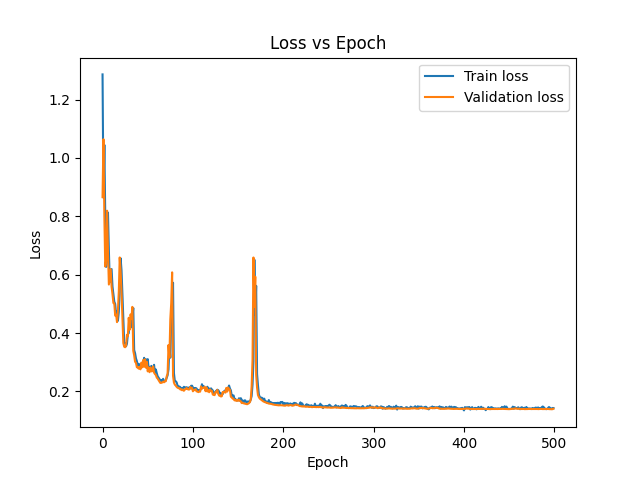
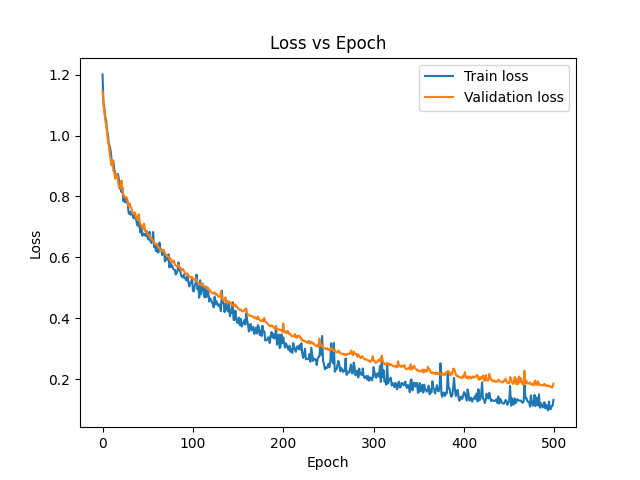
demo_programl_hpctoolkit is working

diff --git a/compiler2_service/demo_programl_hpctoolkit.py b/compiler2_service/demo_programl_hpctoolkit.py
@@ -9,6 +9,7 @@ to use the bazel build system. Usage:
 
 It is equivalent in behavior to the demo.py script in this directory.
 """
+import argparse
 import logging
 import pickle
 from pathlib import Path
@@ -35,8 +36,35 @@ pd.set_option("display.max_columns", None)
 collected_metrics = ["REALTIME (sec) (I)", "REALTIME (sec) (E)"]
 
 
+parser = argparse.ArgumentParser()
+parser.add_argument(
+    '--arch', type=str, default='transformer', help='Architecture transformer or encoder.'
+)
+parser.add_argument(
+    "--dim_emb", type=int, default=64, help="Embedding dimension."
+)
+parser.add_argument(
+    "--heads", type=int, default=2, help="Number of heads."
+)
+parser.add_argument(
+    "--encoder_layers", type=int, default=3, help="Number of encoder layers."
+)
+parser.add_argument(
+    "--decoder_layers", type=int, default=3, help="Number of decoder layers."
+)
+parser.add_argument(
+    "--dropout", type=float, default=0.1, help="Dropout."
+)
+parser.add_argument(
+    "--epochs", type=int, default=500, help="Number of decoder layers."
+)
+
 
 def main():
+    args = parser.parse_args()
+
+    device = "cuda" if torch.cuda.is_available() else "cpu"
+    
     # Use debug verbosity to print out extra logging information.
     init_logging(level=logging.CRITICAL)
     dataset = {'graphs':[], 'labels':[]}
@@ -61,20 +89,23 @@ def main():
                 print("Main: step = ", i)
                 try:
                     action = 76
-                    while action in [23, 31, 45, 46, 76, 70, 71, 99, 107, 120]:
+                    while action in [9, 13, 23, 31, 45, 46, 62, 65, 76, 70, 71, 99, 102, 106, 107, 120]:
                         action = env.action_space.sample() 
-                    actions.append(action + 2) # + 2 for start/end token
-                    print(f'{actions[-1]}-----------------------------------------------------')
+
+                    print(f'{action}-----------------------------------------------------')
 
                     observation, reward, done, info = env.step(
-                        action=actions[-1],
+                        action=action,
                         observation_spaces=["programl_hpctoolkit_pickle"],
                         reward_spaces=["perf_tensor"],
                     )
-                except :
+                except:
                     print("AGENT: Timeout Error Step")
+                    breakpoint()
+                    traceback.print_exc()
                     continue       
                 
+                actions.append(action + 2) # + 2 for start/end token
                 print(reward)
                 g = pickle.loads(observation[0])
                 # print(g)
@@ -85,29 +116,43 @@ def main():
 
             actions.append(1)
         
-    breakpoint()
 
-    device = "cuda" if torch.cuda.is_available() else "cpu"
-
-    # breakpoint()
     dgl_dataset = GraphormerDGLDataset(graphs=dataset["graphs"], labels=dataset["labels"], device=device)
+    # with open('dgl.pkl', 'rb') as handle: dgl_dataset = pickle.load(handle)    
+    
+    train_data = dgl_dataset.get_train()
+    valid_data = dgl_dataset.get_valid()
+    
+    # with open('dgl.pkl', 'wb') as handle: pickle.dump(dgl_dataset, handle, protocol=pickle.HIGHEST_PROTOCOL)
 
-    model = GraphormerEncoder(
-        num_classes=dgl_dataset.num_classes,
-    ).to(device=device)
 
+    if args.arch == 'encoder':
+        model = GraphormerEncoder(
+            num_classes=dgl_dataset.num_classes,
+        ).to(device=device)
+    elif args.arch == 'transformer':
+        model = GraphormerTransformer(
+            num_nodes=dgl_dataset.max_nodes,
+            num_classes=dgl_dataset.num_classes,
+            dim_model=args.dim_emb, 
+            num_heads=args.heads, 
+            num_encoder_layers=args.encoder_layers, 
+            num_decoder_layers=args.decoder_layers, 
+            dropout_p=args.dropout
+        ).to(device)
+    else:
+        print('Argument arch must be transformer or encoder')
+        exit(1)
 
     opt = torch.optim.SGD(model.parameters(), lr=0.01)
     loss_fn = nn.CrossEntropyLoss()
-    # loss_fn = nn.L1Loss(reduction="sum")
-
 
     train_loss_list, validation_loss_list = model.fit(
         opt=opt, 
         loss_fn=loss_fn, 
-        epochs=500, 
-        train_dataloader=dgl_dataset.get_train(),
-        valid_dataloader=dgl_dataset.get_valid()
+        epochs=args.epochs, 
+        train_dataloader=train_data,
+        valid_dataloader=valid_data,
     )
 
     plt.plot(train_loss_list, label = "Train loss")
@@ -119,14 +164,20 @@ def main():
     plt.savefig(Path(__file__).parent/'result.png')
 
 
-    # breakpoint()
-    test_data = dgl_dataset.get_test()
-    y_predicted = model.predict(test_data['x'])
+    def predict(dataset):
+        y_predicted = model.predict(dataset['x'])
 
-    for y_pred, y in zip(y_predicted, test_data['y']):
-        print(f'y_pred: {y_pred} -> y: {y.tolist()}')
+        for y_pred, y in zip(y_predicted, dataset['y']):
+            print(f'y_pred: {y_pred} -> y: {y.tolist()}')
 
-            
+    print('Train data-----------------------------------------------------')
+    predict(train_data)
+
+    print('Validation data------------------------------------------------')
+    predict(valid_data)
+    
+    print('Test data------------------------------------------------------')
+    predict(dgl_dataset.get_test())            
 
 if __name__ == "__main__":
     main()

diff --git a/compiler2_service/model/transformer/graphormer_transformer.py b/compiler2_service/model/transformer/graphormer_transformer.py
@@ -59,8 +59,8 @@ class GraphormerTransformer(nn.Module):
     # Constructor
     def __init__(
         self,
+        num_nodes,
         num_classes,
-        num_tokens,
         dim_model,
         num_heads,
         num_encoder_layers,
@@ -78,34 +78,20 @@ class GraphormerTransformer(nn.Module):
             dim_model=dim_model, dropout_p=dropout_p, max_len=5000
         )
 
-        self.embedding = nn.Embedding(num_tokens, dim_model)
-        # self.transformer = nn.Transformer(
-        #     d_model=dim_model,
-        #     nhead=num_heads,
-        #     num_encoder_layers=num_encoder_layers,
-        #     num_decoder_layers=num_decoder_layers,
-        #     dropout=dropout_p,
-        # )
+        self.embedding = nn.Embedding(num_classes, dim_model)
 
 
         encoder_layer = nn.TransformerEncoderLayer(d_model=dim_model, nhead=num_heads, dropout=dropout_p)
         encoder_norm = nn.LayerNorm(dim_model)
         self.encoder0 = nn.TransformerEncoder(encoder_layer, num_encoder_layers, encoder_norm)
         
-        # self.encoder = GraphormerEncoder(
-        #     num_classes=num_classes,
-        #     encoder_embed_dim=dim_model,
-        #     encoder_attention_heads=num_heads,
-        #     encoder_layers=num_encoder_layers,
-        #     dropout=dropout_p,
-        # ).to(device=device)
 
         self.encoder = GraphormerGraphEncoder(
                     # < for graphormer
-                    num_atoms=56,
-                    num_in_degree=7,
-                    num_out_degree=6,
-                    num_edges=512,
+                    num_atoms=num_nodes,
+                    num_in_degree=num_nodes,
+                    num_out_degree=num_nodes,
+                    num_edges=num_nodes * 3,
                     num_spatial=512,
                     num_edge_dis=128,
                     edge_type='single_hop',
@@ -133,7 +119,7 @@ class GraphormerTransformer(nn.Module):
 
 
 
-        self.out = nn.Linear(dim_model, num_tokens)
+        self.out = nn.Linear(dim_model, num_classes)
         
     def forward(self, graphs, tgt, tgt_mask=None, tgt_pad_mask=None):
         # Src size must be (batch_size, src sequence length)
@@ -150,9 +136,6 @@ class GraphormerTransformer(nn.Module):
 
         # src = src.permute(1,0,2)
         tgt = tgt.permute(1,0,2)
-
-
-        # memory0 = self.encoder0(src, mask=src_pad_mask)
 
         inner_states, graph_rep = self.encoder(graphs)
         
@@ -192,7 +175,7 @@ class GraphormerTransformer(nn.Module):
     Train model
     '''
 
-    def fit(self, opt, loss_fn, train_dataloader, val_dataloader, epochs):
+    def fit(self, opt, loss_fn, train_dataloader, valid_dataloader, epochs):
         # Used for plotting later on
         train_loss_list, validation_loss_list = [], []
         
@@ -203,7 +186,7 @@ class GraphormerTransformer(nn.Module):
             train_loss = self.train_loop(opt, loss_fn, train_dataloader)
             train_loss_list += [train_loss]
             
-            validation_loss = self.train_loop(opt, loss_fn, val_dataloader, backprop=False)
+            validation_loss = self.train_loop(opt, loss_fn, valid_dataloader, backprop=False)
             validation_loss_list += [validation_loss]
             
             print(f"Training loss: {train_loss:.4f}")
@@ -216,6 +199,7 @@ class GraphormerTransformer(nn.Module):
     def train_loop(self, opt, loss_fn, dataloader, backprop=True):
         if backprop: self.train()
         else: self.eval()
+        device = next(self.parameters()).device
 
         total_loss = 0
         y_input = dataloader['y'][:,:-1]
@@ -245,6 +229,7 @@ class GraphormerTransformer(nn.Module):
 
     def predict(self, graphs, SOS_token=0, EOS_token=1, max_length=15):
         self.eval()
+        device = next(self.parameters()).device
 
         num_examples = graphs['idx'].size(0)
         y_input = torch.full((num_examples, 1), SOS_token, dtype=torch.long, device=device)
@@ -272,8 +257,8 @@ if __name__ == "__main__":
     dgl_dataset = GraphormerDGLDataset(device=device)
 
     model = GraphormerTransformer(
-        num_classes=dgl_dataset.num_classes,
-        num_tokens=20, 
+        num_nodes=dgl_dataset.num_classes,
+        num_classes=dgl_dataset.num_classes, 
         dim_model=8, 
         num_heads=2, 
         num_encoder_layers=3, 
@@ -289,7 +274,7 @@ if __name__ == "__main__":
         opt, 
         loss_fn,
         train_dataloader=dgl_dataset.get_train(), 
-        val_dataloader=dgl_dataset.get_valid(), 
+        valid_dataloader=dgl_dataset.get_valid(), 
         epochs=500,
     )
 

diff --git a/compiler2_service/agent_py/datasets/hpctoolkit_cpu.py b/compiler2_service/agent_py/datasets/hpctoolkit_cpu.py
@@ -31,12 +31,12 @@ class Dataset(Dataset):
                         # $IN is replaced with benchmark path
                         # Following are linking flags (only one in this case).
                         argument=["$CC", "$IN", "-lm"],
-                        timeout_seconds=60,
+                        timeout_seconds=5, #60,
                         outfile=["a.out"],
                     ),
                     run_cmd=Command(
                         argument=["./a.out"],
-                        timeout_seconds=300,
+                        timeout_seconds=5,#300,
                         infile=["a.out"],
                     )
                 )
@@ -90,7 +90,7 @@ class Dataset(Dataset):
         #     cmd += ["-isystem", str(directory)]
         return subprocess.check_output(
             cmd,
-            timeout=300,
+            timeout=5,#300,
         )
 
     def benchmark_uris(self) -> Iterable[str]:

diff --git a/compiler2_service/model/transformer/graph_encoder/dgl_dataset.py b/compiler2_service/model/transformer/graph_encoder/dgl_dataset.py
@@ -172,9 +172,12 @@ class GraphormerDGLDataset(Dataset):
             self.graphs, self.labels = graphs, labels
         
         self.labels = torch.tensor(self.labels, device=device)
+        self.tokens = self.labels.size(1)
+
 
         self.device = device
-        self.num_classes = torch.max(self.labels) + 1
+        self.num_classes = torch.max(self.labels).item() + 1
+        self.max_nodes = max([g.num_nodes() for g in self.graphs]) 
 
         num_data = len(self.graphs)
         self.seed = seed
